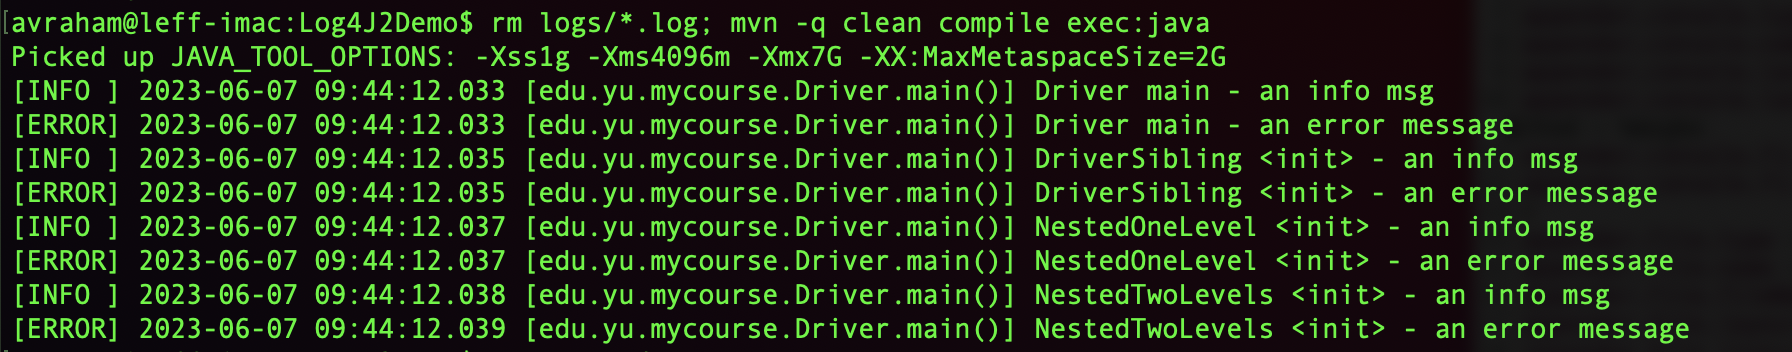
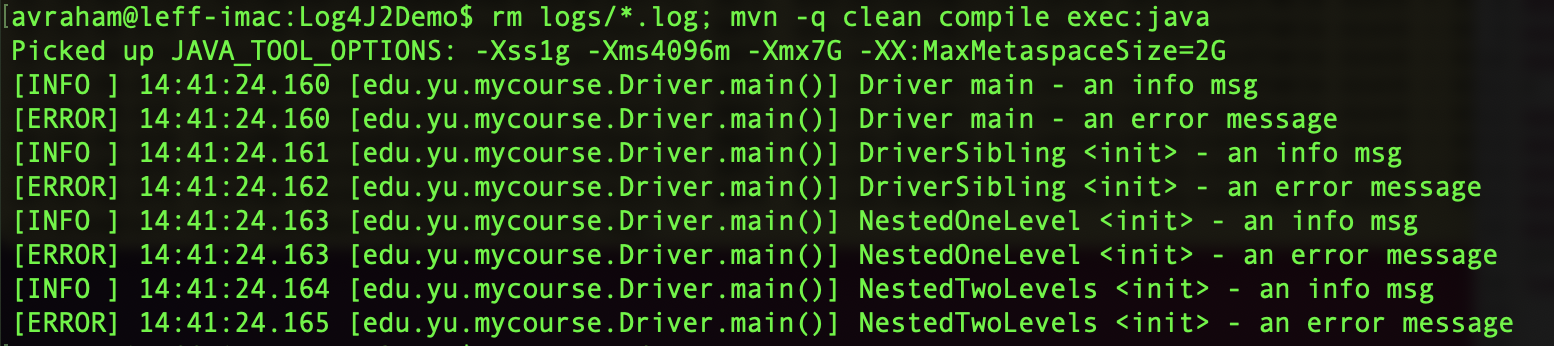
Added "more granular logging" approach
Changed logging pattern for console to not include date, for disk to yes include date.  Updated figs.

Changed region(s): [[0.0, 0.0, 0.9884, 0.9827]]

diff --git a/README.md b/README.md
@@ -32,49 +32,75 @@ The log4j2 library provides the `ALL, TRACE, DEBUG, INFO, WARN, ERROR, FATAL, an
 
 I use a properties file (`src/main/resources/log4j2.properties`) to configure log4j2, rather than e.g., XML or or JSON.
 
-### Goal
+### General Purpose, "Treat All Classes The Same" Goal
 
 The basic "first order" decision is: *what log output do I want to persist to a file?* versus *what log output do I want to see on the console?*
 
 In production, a good case can be made that we want to persist **less** log output to a file (compared to console) because we don't want to exhaust disk storage.  (Note that there are ways to address this issue, and that in general, too much information about the state of your system is **not** a problem :-)).  In this scenario, we want to specify that only "high importance" messages get logged to disk, relative to the console.
 
-However: for the development & testing scenarios we're interested in, I think that the opposite is the case.  Here you want as much information as possible logged persistently, so that you can pore over/post-process the log file to understand what went awry.  We only use the console information to see, at a high level, whether things are working correctly or not.
+However: for the development & testing scenarios _we're_ interested in, I think that the opposite is the case.  Here you want as much information as possible logged persistently, so that you can pore over/post-process the log file to understand what went awry.  We only use the console information to see, at a high level, whether things are working correctly or not.
 
 From this perspective, the following property file specification `log4j2.properties.minimal` (remember to copy as `log4j2.properties`) is sufficient.
 
-> status = error
-dest = err
-name = PropertiesConfig
-# 
-property.filename = logs
-# 
-appender.console.type = Console
-appender.console.name = STDOUT
-appender.console.layout.type = PatternLayout
-appender.console.layout.pattern = [%-5level] %d{yyyy-MM-dd HH:mm:ss.SSS} [%t] %c{1} %method - %msg%n
-appender.console.filter.threshold.type = ThresholdFilter
-appender.console.filter.threshold.level = info
-# 
-appender.file.type = File
-appender.file.name = LOGFILE
-appender.file.fileName=${filename}/mycourse.log
-appender.file.layout.type=PatternLayout
-appender.file.layout.pattern=%d{HH:mm:ss.SSS} [%t] %-5level %logger{36} %method - %msg%n
-appender.file.filter.threshold.type = ThresholdFilter
-appender.file.filter.threshold.level = debug
-#
-logger.file.name = edu.yu.mycourse
-# 
-rootLogger = debug, STDOUT, LOGFILE
+	status = error
+	dest = err
+	name = PropertiesConfig
+	# 
+	property.filename = logs
+	appenders = console, file
+	# 
+	appender.console.type = Console
+	appender.console.name = STDOUT
+	appender.console.layout.type = PatternLayout
+	appender.console.layout.pattern = [%-5level] %d{HH:mm:ss.SSS} [%t] %c{1} %method - %msg%n
+	appender.console.filter.threshold.type = ThresholdFilter
+	appender.console.filter.threshold.level = info
+	# 
+	appender.file.type = File
+	appender.file.name = LOGFILE
+	appender.file.fileName=${filename}/mycourse.log
+	appender.file.layout.type=PatternLayout
+	appender.file.layout.pattern=%d{yyyy-MM-dd HH:mm:ss.SSS} [%t] %-5level %logger{36} %method - %msg%n
+	appender.file.filter.threshold.type = ThresholdFilter
+	appender.file.filter.threshold.level = debug
+	#
+	logger.file.name = edu.yu.mycourse
+	# 
+	rootLogger = debug, STDOUT, LOGFILE
 
 As shown below, all messages at level INFO (and above) are logged to the console; all messages at level DEBUG (and above) are logged to disk.  This behavior is specified using the `threshold.type` and `threshold.level` values.
 
-### Output Logged To Console
+#### Output Logged To Console
 ![OutputToConsole_AllClassesTreatedTheSame.png](OutputToConsole_AllClassesTreatedTheSame.png)
 
-### Output Logged To Disk
+#### Output Logged To Disk
 
 ![OutputToDisk_AllClassesTreatedTheSame.png](OutputToDisk_AllClassesTreatedTheSame.png)
+
+### More Granular Approach: Distinguish Between Classes
+
+The "general purpose" logging approach may well meet your requirements.  However, sometimes you may instrument code in a given package thoroughly with DEBUG statements as you're developing, thoroughly test that package, and then shift to developing code in another package.   Now you're getting "too much log output" from the first package, and it's getting in the way of your debugging your new work.
+
+Commenting out the logging statements in the first package is definitely the wrong approach! After all, you may need to revisit that code when new bugs appear.  Instead, you want to configure `log4j2` to assign one level of logging to one package (or even to **one class**), and assign another level of logging to another class.  I've illustrated this capability with the `src/main/resources/log4j2.properties.granular` file.
+
+Note: this involves removing the `threshold.type` and `threshold.level` specifications for `Console` and `File`, and instead specifying levels with a more granular specification.
+
+The example:
+
+* The `Driver` class itself will log to disk at INFO level
+* The `DriverSibling` class (in the same package as `Driver`) will log to disk at DEBUG level
+* All classes in the `nestedonelevel` package will log to disk at DEBUG level
+* All classes in the `nestedonelevel.nestedtwolevels` package will not log at all to both the console and disk.
+
+The results: 
+
+#### Output Logged To Console 
+![OutputToConsole_GranularLogging.png](OutputToConsole_GranularLogging.png)
+
+
+#### Output Logged To Disk
+
+![OutputToDisk_GranularLogging.png](OutputToDisk_GranularLogging.png)
 
 
 
